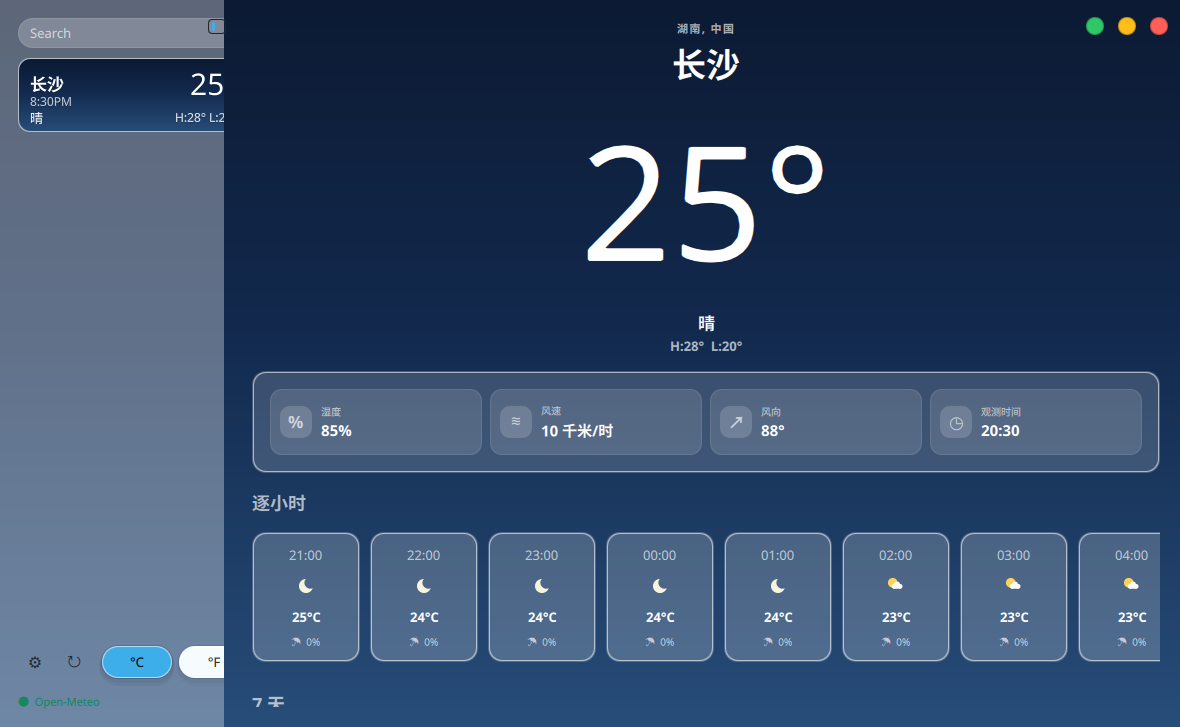
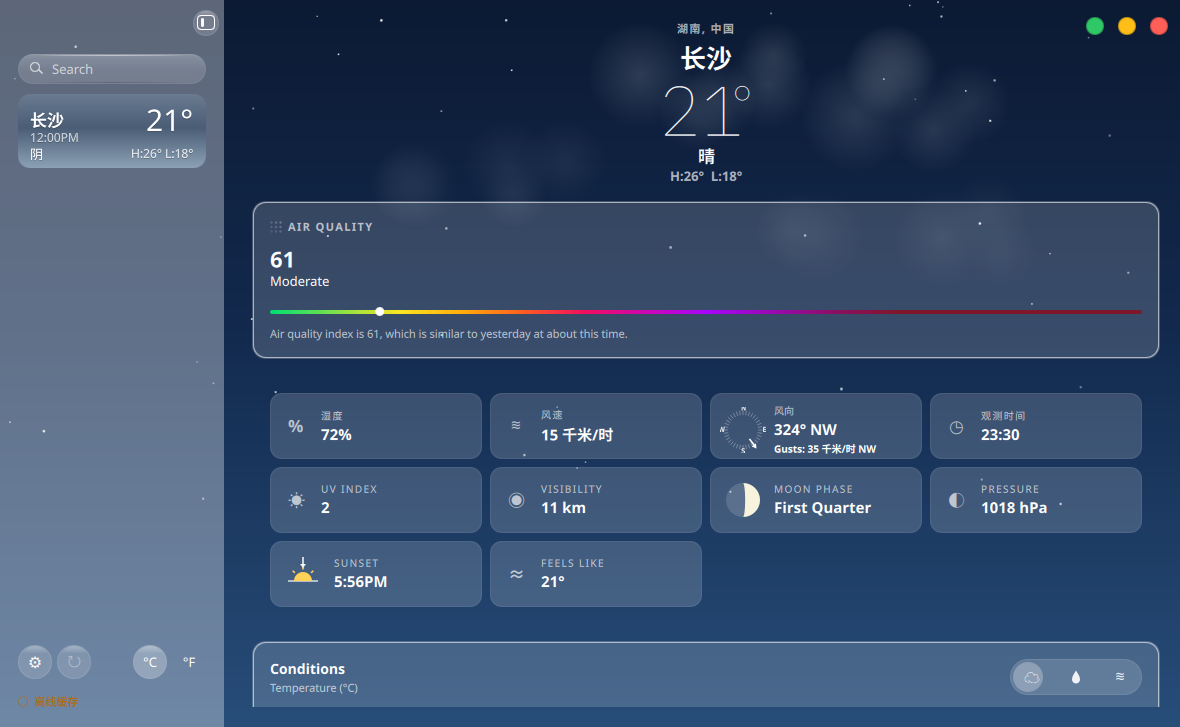
docs: round 5 进度与截图

diff --git a/docs/ui-weather/LEDGER.md b/docs/ui-weather/LEDGER.md
@@ -4,6 +4,9 @@
 参考实测色（814×498 主图采样）：天空 `#2961a7→#1469bc→#538ec9`（上→下，含云照片）；Conditions 卡 `#0057b2`；hero 文本 `#ffffff`；10天条渐变 青→黄→橙。
 
 ## 已改
+- **夜间晴空补程序化静态淡云（本轮，前端，零 Go/C++ 改动，用户裁定 2 执行）**：TASK 底部用户裁定（2026-10-18 12:20）裁定 2"夜间晴空淡云：补"——原 仍差 3 剩余项。裁定允许在线搜索他人做法，本轮 WebSearch 不可用（API 403），按 Apple 天气夜景惯例（夜空上有比天空略亮的灰白云絮、星在云后）做程序化近似，无来源 URL 可记。`apps/weather/qml/Main.qml:236-267` 新增 `nightClearClouds`（mulberry32(20261021) 种子，4 朵扁平夜云：cloudWidth 340+random()×180、cloudHeight=width×0.24、5 puff 与日间同比例、yRatio 顶带 0.085 递降同日间、**opacity 0.16−index×0.035+random()×0.02 ≈ 0.16/0.125/0.09/0.055**——夜空暗、云须淡于日间的 0.40→0.11）；`Main.qml:651-711` starFieldLayer 与 rainFieldLayer 之间新增 `nightClearCloudLayer`（**置于星层之后**——夜里云遮星的真实层次；镜像 clearSkyCloudLayer：anchors.fill/visible: root.nightClearSky/clip/同 cloudLeft 侧栏避让/Canvas 径向渐变 puff 同画法/Accessible.ignored）。**零动画**（静态纹理，reduce-motion 天然安全，无帧差义务）。
+  **实测**（夜态取证不靠 TEMP 改代码：复制 dev 快照改 `weatherCode:0/isDay:false/time 23:30`（/tmp/kos-weather-night-state）+ `KOS_WEATHER_DISABLE_SERVICE_AUTOSTART=1` + 指向不存在 socket；probe 截图 tmp/shots/night-1792298861.png 过体检闸 1180x727）：云区（x860-1080）实测云心 vs 同行晴空 Δ**+36/+34/+30**（y60，≈白@0.14 叠天空，= 设计 0.16×puff alphaMul 0.6-1.0 顶云）、往下 Δ+18/+14 递减（y100/y140）；左侧干净带（x240-600）云覆盖 10%、峰值 Δ+11（最淡云）；目视 /tmp/z-night2.png 2x：深夜蓝天空上柔灰云絮、**无硬边**、星点在云隙可见。**门控双向验证**：真实 dev 快照（日间阴天 code 3，截图 1792298778 过体检闸）夜层零渲染、只显示既有 cloudySky cloudField——无双重云。qmllint 0 error（139 warning 与基线一致）。git diff 仅 Main.qml +96 行两处插入。测试 6/6 绿、go test ok。
+  **注**：夜云几何/透明度全系程序化近似（参考图无夜景），形态是否合意待真机复核；云为静态——若日后要夜云缓漂（B.1 已有 cloudySky 漂移先例）另立轮带帧差证据。
 - **多云/阴天云层"启动即在场"修复（本轮，前端，零 Go/C++ 改动，巡检轮发现 + B.1 动效残差修复）**：巡检新截图（1792297011 过体检闸，日间阴天 code 3）对照发现天空为**纯平滑渐变、零云**——而 LEDGER 旧记载"多云/阴天已有动态 cloudField"。根因（`apps/weather/qml/Main.qml` cloudFieldLayer delegate）：delegate 硬编码 `x: -cloudW - 20`（屏外左），动画先 `PauseAnimation phaseMs`（random×driftMs = 0..8-12s，均值 ~5s）再入场——**每次启动天空空 ~0-12s 云才陆续从左缘渗入**；且 `reduceMotion` 下动画 running:false，x 永远停在屏外 → **reduce-motion 天空永久无云**（动画成唯一信息通道，违 HIG）；`cloudField` 数据里的 `xRatio: random()`（:184）从未被消费。修复：`Main.qml:733-734` delegate 新增 `property real entryX: modelData.xRatio × Math.max(cloudFieldLayer.width − cloudW, 0)`、`x: cloud.entryX`（种子铺满全窗、首帧即有云，reduce-motion 下云静止在场）；`Main.qml:775-781` SequentialAnimation 改为 NumberAnimation `from: cloud.entryX → width+20`（首程从种子位起）+ `ScriptAction` 把 entryX 重置回屏外左（ScriptAction 赋值断开 binding，后续各程从左缘入场）+ 尾部 PauseAnimation phaseMs（保留既有错峰）。Canvas onPaint/y/width/height/opacity/cloudField 数据/`visible: root.cloudySky` 门控一行未动。
   **帧差证据**（活实例 spectacle 连拍 4 帧间隔 ~350ms、启动后 ~3s 起，日间阴天场景无星空底噪）：云区（窗 250,0-1150,190）f0→f1/f1→f2/f2→f3 MAE **2.330/2.180/2.160**（max 32、chpx ~17k/帧，云漂移信号）；对照侧栏区（10,300-200,420）三对帧**全部精确 MAE=0.0000/maxdiff=0**；AQ 卡区 MAE 4.05→3.49→2.93 递减且卡为日间半透明玻璃——系云从玻璃卡背后漂过的同一信号（非卡片自身变化）。目视 /tmp/z-f0-sky.png：启动 ~3s 天空已有成片云绒球（改前同刻为纯渐变）。
   **实测**（本轮二进制 --screenshot 1792297340 过体检闸 1180x727，650ms 抓帧 vs 改前同模式 1792297011）：云区 chpx(>8) **15179**（改前 650ms 零云 → 改后同刻有云）、侧栏区 MAE **0.0000** 逐像素不变。qmllint 0 新增（139 warning 与基线一致，code-writer 自证）。
@@ -193,9 +196,9 @@
 ## 仍差（按视觉冲击排序）
 1. ~~hero 区垂直节奏仍比参考松 + 城市名字号偏大~~（**已做**，见已改——gap 30/27/12→17/12/9（目标 16/13/9）、城市名 34→26px；小标签→城市 gap 2px 级残差记已改注）。
 2. **阶段三动效项（≥每 3 轮推进 1 条，必须带帧差 MAE）**：已完成"夜间晴天星星闪烁""逐小时卡列表入场交错""雨天雨丝下落""雪天雪花飘移""多云/雾天云层漂移""雷电闪白""白日晴天阳光光线呼吸（见已改，雾天流动由 cloudySky 覆盖 45/48 共用云层近似）""卡片 hover 玻璃高光+抬升""刷新按钮旋转""图标 Bounce（切换城市/刷新，见已改）""图标 Variable color（太阳光线逐层点亮，见已改）""图标 Replace down-up（天气状态变化，见已改）""hero 温度滚动视差/缩放（见已改）"（均见已改，含帧差证据）。剩余：温度曲线 draw-on（图标 Pulse（正在更新）已完成，见已改；draw-on 已按参考图证伪暂停，见仍差 3）。**B.1 环境动效 7 条全部有实现**。本轮修了云层漂移的启动残差（见已改首条——改前启动后天空空 ~0-12s、reduce-motion 下永久无云；改后首帧即有云、reduce-motion 云静止在场）。
-3. ~~天空是纯渐变，参考为带云照片质感~~ **白日晴天已补程序化静态淡云纹理**（见已改，云带/衰减形态同构、峰值亮度系照片级差记外推）；多云/阴天已有动态 cloudField（见已改）。剩余：夜间晴空无云（参考无夜景，待裁定是否补淡云）。
-4. ~~Conditions 卡无温度走势曲线~~ **本轮用 Pillow 放大 ref-main Conditions 卡复核（(515,200)-(760,310) 4x + y280-309 逐行采样）：参考卡里没有走势曲线**——只有 时间行/图标行/温度行 + 右上分段玻璃控件，y298-306 的亮像素全是温度文字字形（逐字列断续分布），无任何连续亮带。TASK 阶段三 B.6 虽列了"温度曲线 draw-on"，但与"参考图唯一判据"冲突，**暂停此条，待用户裁定**（裁定要曲线才恢复）。
-5. 缺卡片：~~空气质量~~（已做）/ ~~风罗盘~~（已做）/ ~~阵风字段~~（后端已做）/ ~~风卡 Gusts 底行~~（已接线）/ ~~UV 后端字段~~（已做）/ ~~能见度后端字段~~（已做）/ ~~UV Index 瓦片~~（**已做**）/ ~~Visibility 瓦片~~（**已做**）/ ~~气压后端字段~~（已做）/ ~~月相后端字段~~（已做）/ ~~月相 QML 卡~~（**已做**，见已改）/ ~~气压 QML 卡~~（**已做**，见已改）/ ~~Sunset 瓦片~~（**已做**，见已改）/ ~~体感温度瓦片~~（**已做**，见已改）。**TASK 阶段一/二列出的卡片至此全部接完**。shell 侧 DockWeatherWidget/WeatherPopup 只接了 service 层 airQuality/windGust/uvIndex/visibility/**moonPhase** 属性，面板 UI 均未展示读数（popup 底行现有 Humidity/Wind speed/Wind direction 三列，popup 宽度有限，加列有拥挤风险、且 shell 面板无 Apple 天气参考形态，是否加/加哪个待用户裁定；moonIllumination 属性 shell 侧也未接）。~~逐小时区三段切换钮的风段（≋）惰性~~（**已接线**，见已改——勘误：后端 `hourlyPoint.windSpeed` 本就存在，LEDGER 旧记载有误）。三段切换钮温度/降水/风速三段全部可用。
+3. ~~天空是纯渐变，参考为带云照片质感~~ **白日晴天已补程序化静态淡云纹理**（见已改，云带/衰减形态同构、峰值亮度系照片级差记外推）；多云/阴天已有动态 cloudField（见已改）。~~剩余：夜间晴空无云~~（**已做**，见已改"夜间晴空补程序化静态淡云"——用户裁定 2 执行，夜态 probe 实测云 Δ+36/覆盖 10%、门控双向验证）。
+4. ~~Conditions 卡无温度走势曲线~~ **已裁定（用户裁定 1，2026-10-18）：温度走势曲线要做**——后端 hourly/daily 数据齐备，有数据就画；形态从参考图（ref-main / tile-cards）取，无曲线形态时按 Apple Weather 惯例做温度折线+渐变填充并标"外推待确认"；draw-on 动画照阶段三做（带帧差 MAE）。**尚未实现，按裁定恢复排期**（推翻本轮前"按参考图证伪暂停"的记载）。
+5. 缺卡片：~~空气质量~~（已做）/ ~~风罗盘~~（已做）/ ~~阵风字段~~（后端已做）/ ~~风卡 Gusts 底行~~（已接线）/ ~~UV 后端字段~~（已做）/ ~~能见度后端字段~~（已做）/ ~~UV Index 瓦片~~（**已做**）/ ~~Visibility 瓦片~~（**已做**）/ ~~气压后端字段~~（已做）/ ~~月相后端字段~~（已做）/ ~~月相 QML 卡~~（**已做**，见已改）/ ~~气压 QML 卡~~（**已做**，见已改）/ ~~Sunset 瓦片~~（**已做**，见已改）/ ~~体感温度瓦片~~（**已做**，见已改）。**TASK 阶段一/二列出的卡片至此全部接完**。shell 侧 DockWeatherWidget/WeatherPopup 只接了 service 层 airQuality/windGust/uvIndex/visibility/**moonPhase** 属性，面板 UI 均未展示读数——**已裁定（用户裁定 3，2026-10-18）：以参考图为唯一判据、不发明新布局，只把已接字段按 Apple 天气卡片信息密度惯例补入现有 popup 底行（不新增列就复用现有列），拿不准记"外推待确认"，不再等待裁定**（尚未实现，排期中）。~~逐小时区三段切换钮的风段（≋）惰性~~（**已接线**，见已改——勘误：后端 `hourlyPoint.windSpeed` 本就存在，LEDGER 旧记载有误）。三段切换钮温度/降水/风速三段全部可用。
 6. 侧栏只有 1 个城市时卡下方大片空白（参考有多城填满）；无数据可解，仅记录。
 7. ~~滚动边缘效果目前只做了列表**顶边**；列表底边（卡片滚出底缘）未做渐隐~~（**已做**，见已改——`scrollEdgeBottom` 与顶边镜像对称，TEMP 下推卡片取证渲染、终态验证门控；滚动态实拍仍未见，见外推待确认）。
 8. ~~指标瓦片（白@0.12）与同级全宽卡（AQ/10 天，白@0.16）填充 alpha 不一致~~（**已做**，见已改——瓦片统一到 0.16/0.22、符号盒 0.20 保 +0.04 关系；日景材质方向差异另见外推待确认首条（**已执行**，见已改"昼夜分材质"））。
@@ -239,7 +242,7 @@
 - **AQ 说明文案是参考模板照抄**："which is similar to yesterday at about this time" —— 快照里**没有**昨日 AQ 对照数据，这句是静态照抄参考图文案，并非真实对比结论；有误导风险，待用户裁定（改成只报数值/类别，或后端补昨日读数）。
 - **AQ 卡为全宽**：参考图里 AQ 卡是半宽卡（与 Conditions 并排两列）；本项目主区是单列布局，Conditions/10 天卡已是全宽，AQ 卡沿用全宽保持一致性。若以后改双列网格需一并重排。
 - **空气质量字段形态无参考数值约束**：Category（Good/Moderate/...）是本地按 US EPA 分段从 us_aqi 派生的，Open-Meteo 只给 us_aqi；参考图卡上 "40 Good" 与 EPA 分段一致（40∈0-50→Good），形态吻合但分段文案无 Apple 原文对照。AQ 本次未取到时保留上一次读数（不随主预报一起失效），`time` 字段供消费方判新鲜度——是否要在 stale 判定里单独处理 AQ 待定。消费方接线（Qt WeatherClient 暴露给 QML、shell WeatherService.qml、前端空气质量卡）下一轮做。
-- **Conditions 温度走势曲线已按参考图证伪**（见仍差 3）：TASK B.6 的"温度曲线 draw-on"若被用户裁定仍要，则属外推发明，需先解除"参考图唯一判据"约束。
+- **Conditions 温度走势曲线系外推发明（用户裁定 1 已解除"参考图唯一判据"约束，2026-10-18）**：ref-main Conditions 卡实测无曲线（旧证伪记载仍成立），但用户裁定要做——形态"无曲线形态时按 Apple Weather 惯例做温度折线+渐变填充"，即接受外推；draw-on 动画须带帧差 MAE。见仍差 4。
 - **图标 Bounce 参数无参考**：参考图全静态；弹跳幅度（−6px）、节奏（110ms OutCubic 上 + 160ms OutBack 落，共 270ms）、触发时机（delegate 重建即入场动画后 300+40×index ms）系按 SF Symbols "Bounce" 词汇与 HIG 120–300ms 外推（TASK 阶段三 D 允许）；与入场交错叠加后的整体观感（图标先随卡浮入再弹跳）是否过于频繁/花哨待人工复核。另：弹跳只做了逐小时卡图标，10 天行图标（:1463 附近 WeatherIcon）未加（避免一帧内 7 个图标同时弹太闹），是否需要补待定。
 - **Bounce 与每小时刷新重放**：逐小时数据每小时刷新会重建 delegate → 图标每小时弹跳一次（与入场交错重放同批，见下条既有记录），频率是否符合预期待复核。
 - **刷新钮旋转的真实 loading 触发未实拍**：帧差取证用 TEMP `running: true` 强制（真实 `backend.loading` 窗口太短、无法与 spectacle 连拍对时），`backend.loading` 门控路径与 TEMP 同一属性，QML RotationAnimation 标准原语风险低；真实网络刷新（loading 持续几百 ms~几 s）时旋转观感——尤其很短的 loading 是否只闪转半圈就归零——待真机复核。loading 期间按钮 disabled、字形变白 0.38 且旋转，是否够醒目待定。
